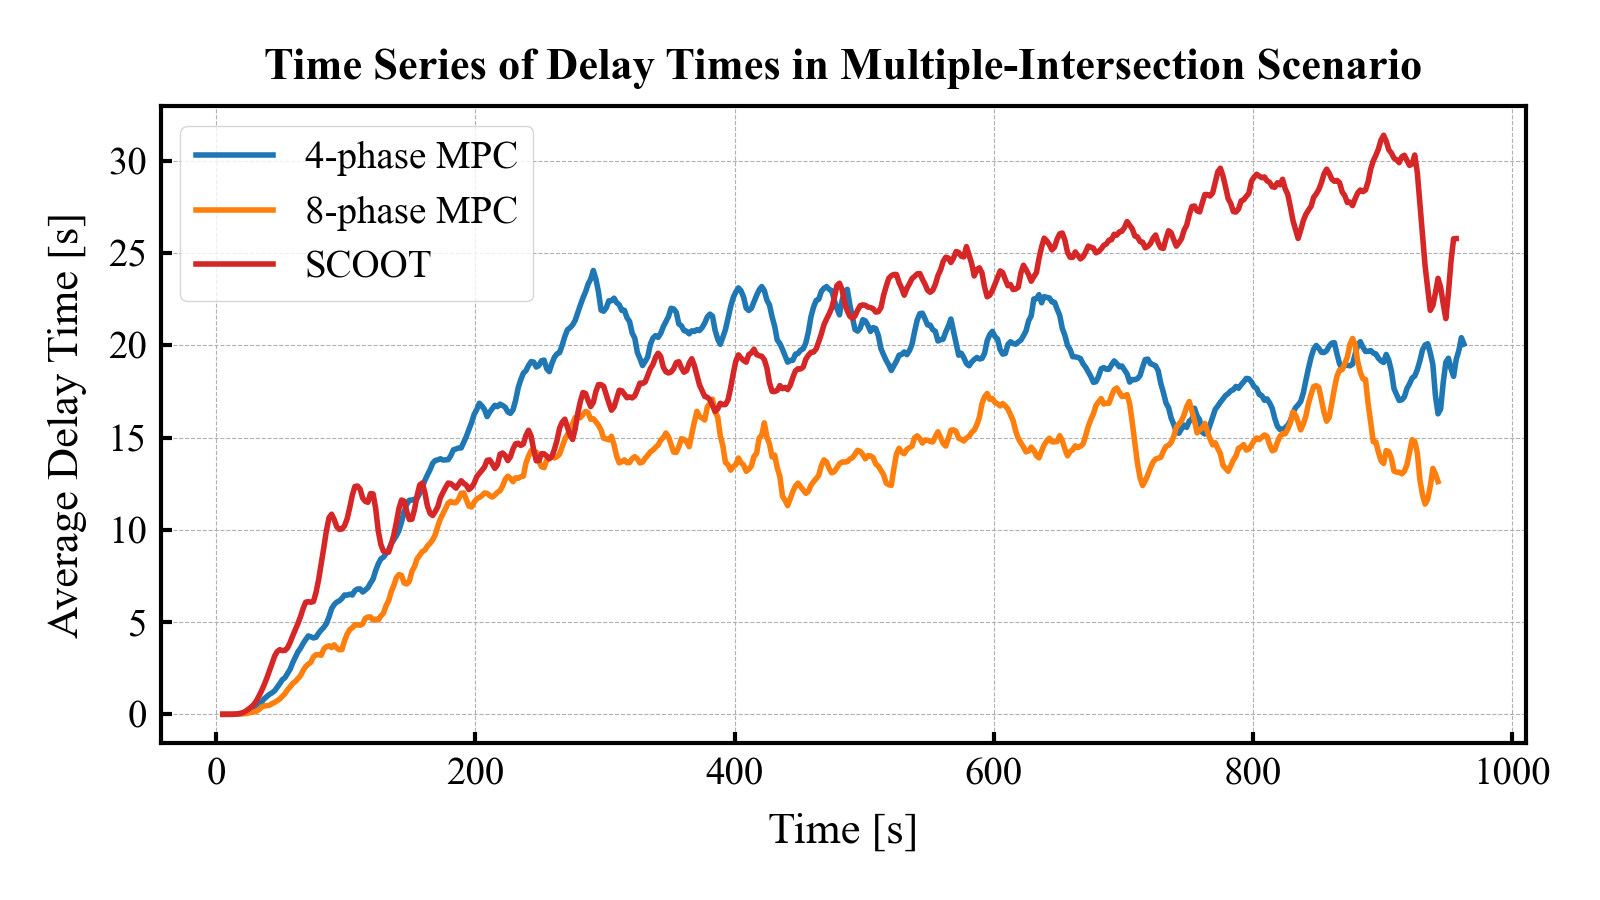
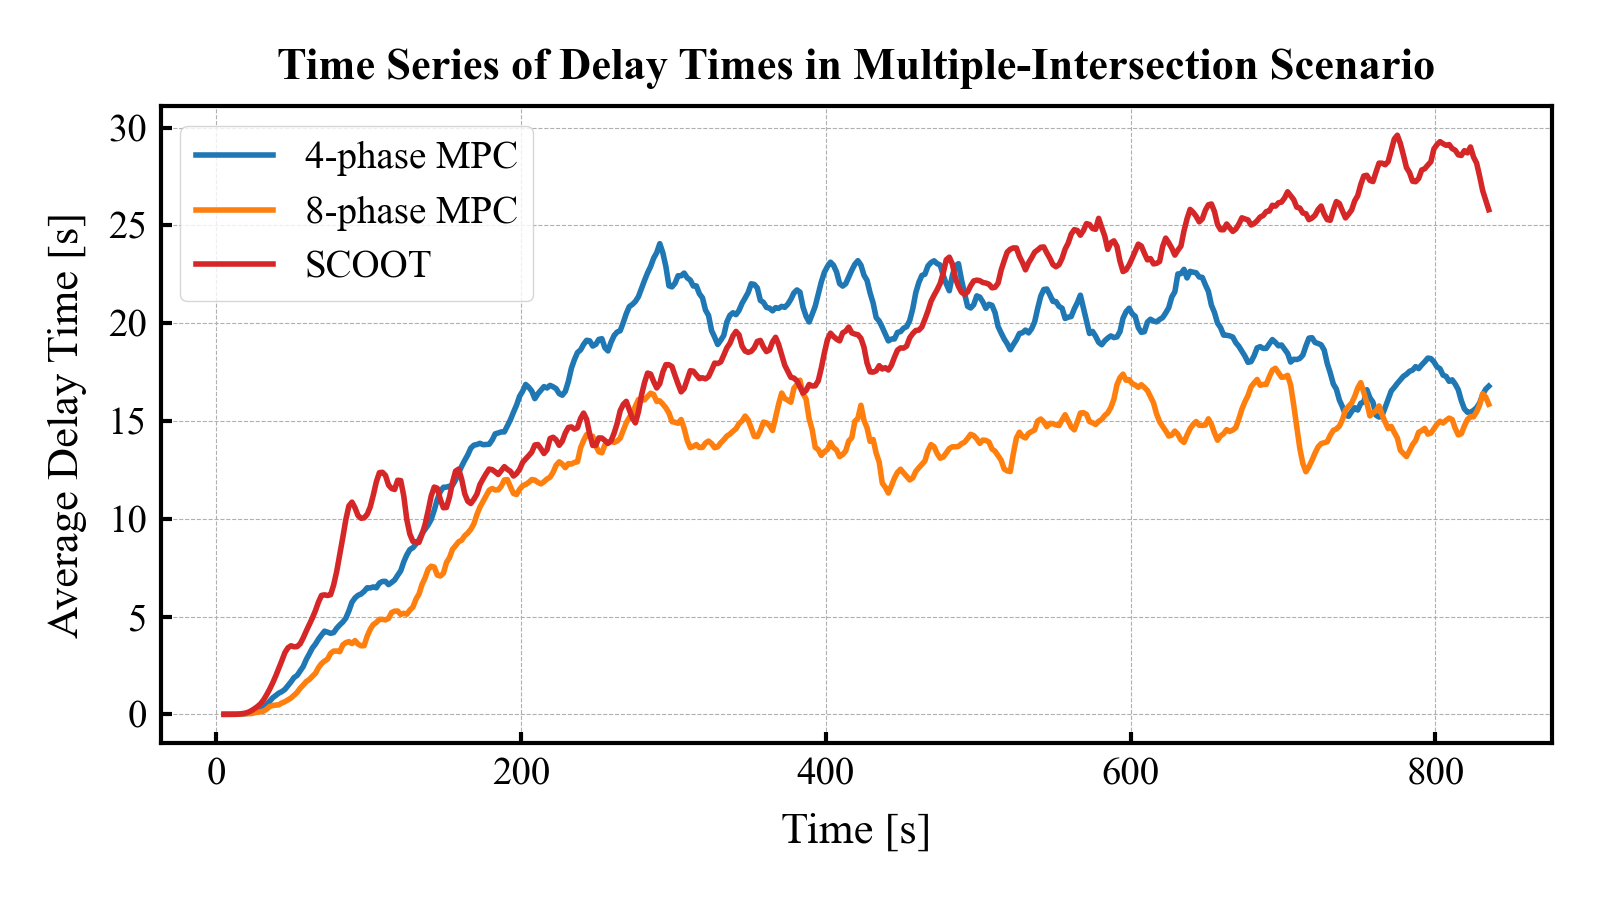
update figures

diff --git a/misc/analysis/performance_metric_time_series_plots/multiple_intersection/plot.py b/misc/analysis/performance_metric_time_series_plots/multiple_intersection/plot.py
@@ -85,7 +85,6 @@ if mpc_dir_path.exists() and any(flg for flg in config_yaml['target']['control_m
                 tmp_time_series_df = pd.read_csv(f)
             
             tmp_time_series_df = tmp_time_series_df[['time', config_yaml['target']['performance_metric']]].copy()
-            tmp_time_series_df = tmp_time_series_df.dropna().reset_index(drop=True)
             tmp_time_series_df['intersection'] = int(re.match(r"intersection_(\d+)", intersection_dir_path.name).group(1))
             
             if time_series_df is None:
@@ -93,6 +92,9 @@ if mpc_dir_path.exists() and any(flg for flg in config_yaml['target']['control_m
             else:
                 time_series_df = pd.concat([time_series_df, tmp_time_series_df], ignore_index=True)
         
+        invalid_ids = time_series_df[config_yaml['target']['performance_metric']].isna()
+        invalid_times = time_series_df.loc[invalid_ids, 'time'].unique()
+        time_series_df = time_series_df[~time_series_df['time'].isin(invalid_times)].reset_index(drop=True)
         time_series_df = time_series_df.groupby('time')[config_yaml['target']['performance_metric']].mean()
         time_series_df = time_series_df.rolling(window=config_yaml['target']['moving_average_window']).mean()
         time_series_df = time_series_df.dropna()
@@ -124,7 +126,6 @@ if scoot_dir_path.exists() and config_yaml['target']['control_method']['scoot']:
                 tmp_time_series_df = pd.read_csv(f)
             
             tmp_time_series_df = tmp_time_series_df[['time', config_yaml['target']['performance_metric']]].copy()
-            tmp_time_series_df = tmp_time_series_df.dropna().reset_index(drop=True)
             tmp_time_series_df['intersection'] = int(re.match(r"intersection_(\d+)", intersection_dir_path.name).group(1))
             
             if time_series_df is None:
@@ -132,6 +133,9 @@ if scoot_dir_path.exists() and config_yaml['target']['control_method']['scoot']:
             else:
                 time_series_df = pd.concat([time_series_df, tmp_time_series_df], ignore_index=True)
         
+        invalid_ids = time_series_df[config_yaml['target']['performance_metric']].isna()
+        invalid_times = time_series_df.loc[invalid_ids, 'time'].unique()
+        time_series_df = time_series_df[~time_series_df['time'].isin(invalid_times)].reset_index(drop=True)
         time_series_df = time_series_df.groupby('time')[config_yaml['target']['performance_metric']].mean()
         time_series_df = time_series_df.rolling(window=config_yaml['target']['moving_average_window']).mean()
         time_series_df = time_series_df.dropna()
@@ -144,20 +148,27 @@ save_dir_path.mkdir(parents=True, exist_ok=True)
 
 # plot time series
 time_series_df = None
+max_time = None
 if 'mpc' in time_series_df_map:
     for num_phases, tmp_time_series_df in time_series_df_map['mpc'].items():
         tmp_time_series_df['method'] = f"{num_phases}-phase MPC"
         if time_series_df is None:
             time_series_df = tmp_time_series_df.copy()
+            max_time = tmp_time_series_df['time'].max()
         else:
             time_series_df = pd.concat([time_series_df, tmp_time_series_df], ignore_index=True)
+            max_time = min(max_time, tmp_time_series_df['time'].max())
 if 'scoot' in time_series_df_map:
     tmp_time_series_df = time_series_df_map['scoot']
     tmp_time_series_df['method'] = 'SCOOT'
     if time_series_df is None:
         time_series_df = tmp_time_series_df.copy()
+        max_time = tmp_time_series_df['time'].max()
     else:
         time_series_df = pd.concat([time_series_df, tmp_time_series_df], ignore_index=True)
+        max_time = min(max_time, tmp_time_series_df['time'].max())
+
+time_series_df = time_series_df[time_series_df['time'] <= max_time].reset_index(drop=True)
 
 fig, ax = plt.subplots()
 

diff --git a/misc/analysis/performance_trajectory_plots/multiple_intersection/plot.py b/misc/analysis/performance_trajectory_plots/multiple_intersection/plot.py
@@ -145,14 +145,17 @@ save_dir_path.mkdir(parents=True, exist_ok=True)
 fig, ax = plt.subplots()
 
 time_series_df = None
+max_time = None
 if 'mpc' in time_series_df_map:
     for num_phases, tmp_time_series_df in time_series_df_map['mpc'].items():
         tmp_time_series_df['method'] = f"{num_phases}-phase MPC"
         
         if time_series_df is None:
             time_series_df = tmp_time_series_df.copy()
+            max_time = tmp_time_series_df['time'].max()
         else:
             time_series_df = pd.concat([time_series_df, tmp_time_series_df], ignore_index=True)
+            max_time = min(max_time, tmp_time_series_df['time'].max())
 
 if 'scoot' in time_series_df_map:
     tmp_time_series_df = time_series_df_map['scoot']
@@ -160,8 +163,12 @@ if 'scoot' in time_series_df_map:
 
     if time_series_df is None:
         time_series_df = tmp_time_series_df.copy()
+        max_time = tmp_time_series_df['time'].max()
     else:
         time_series_df = pd.concat([time_series_df, tmp_time_series_df], ignore_index=True)
+        max_time = min(max_time, tmp_time_series_df['time'].max())
+
+time_series_df = time_series_df[time_series_df['time'] <= max_time].reset_index(drop=True)
 
 sns.lineplot(
     ax=ax,
